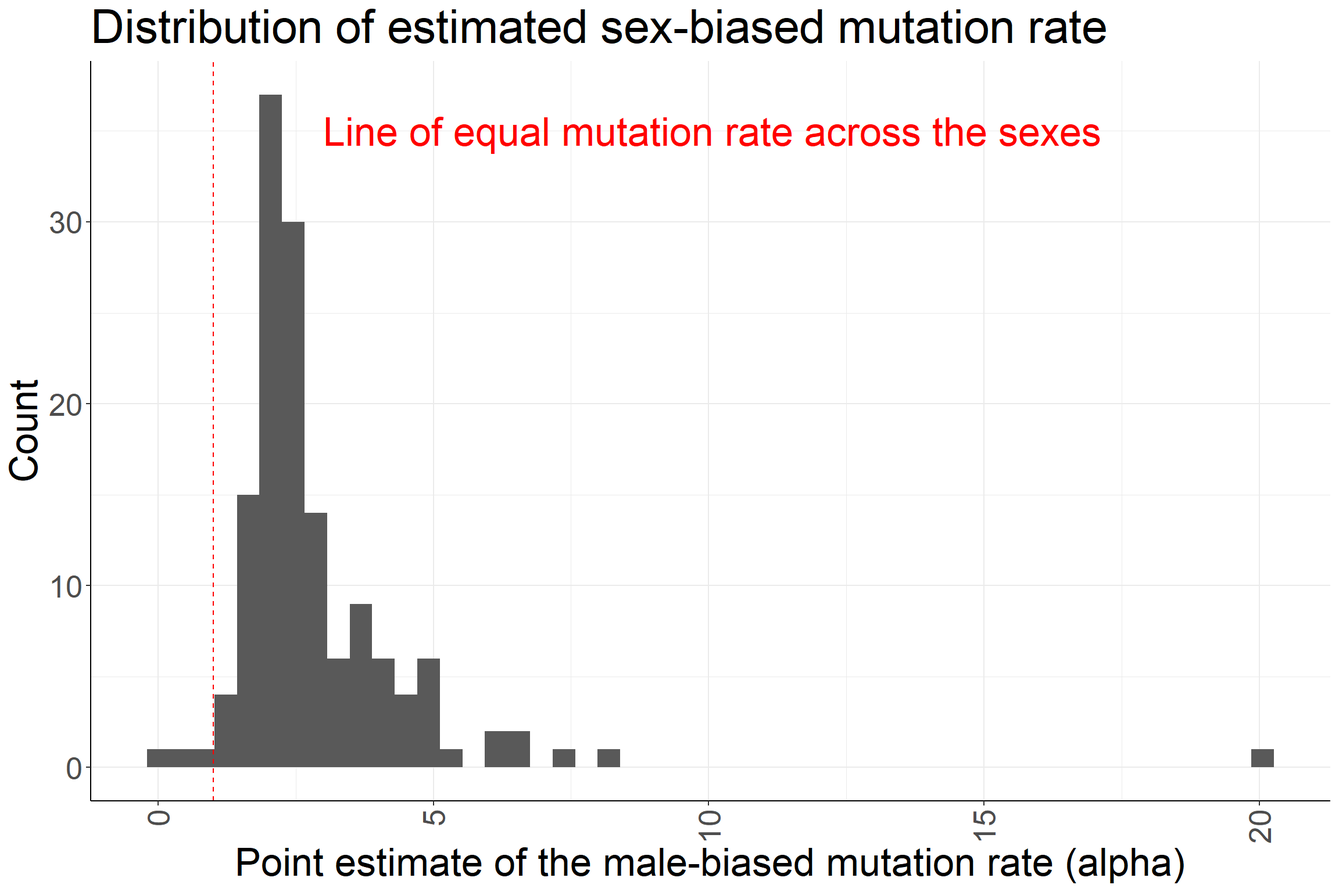
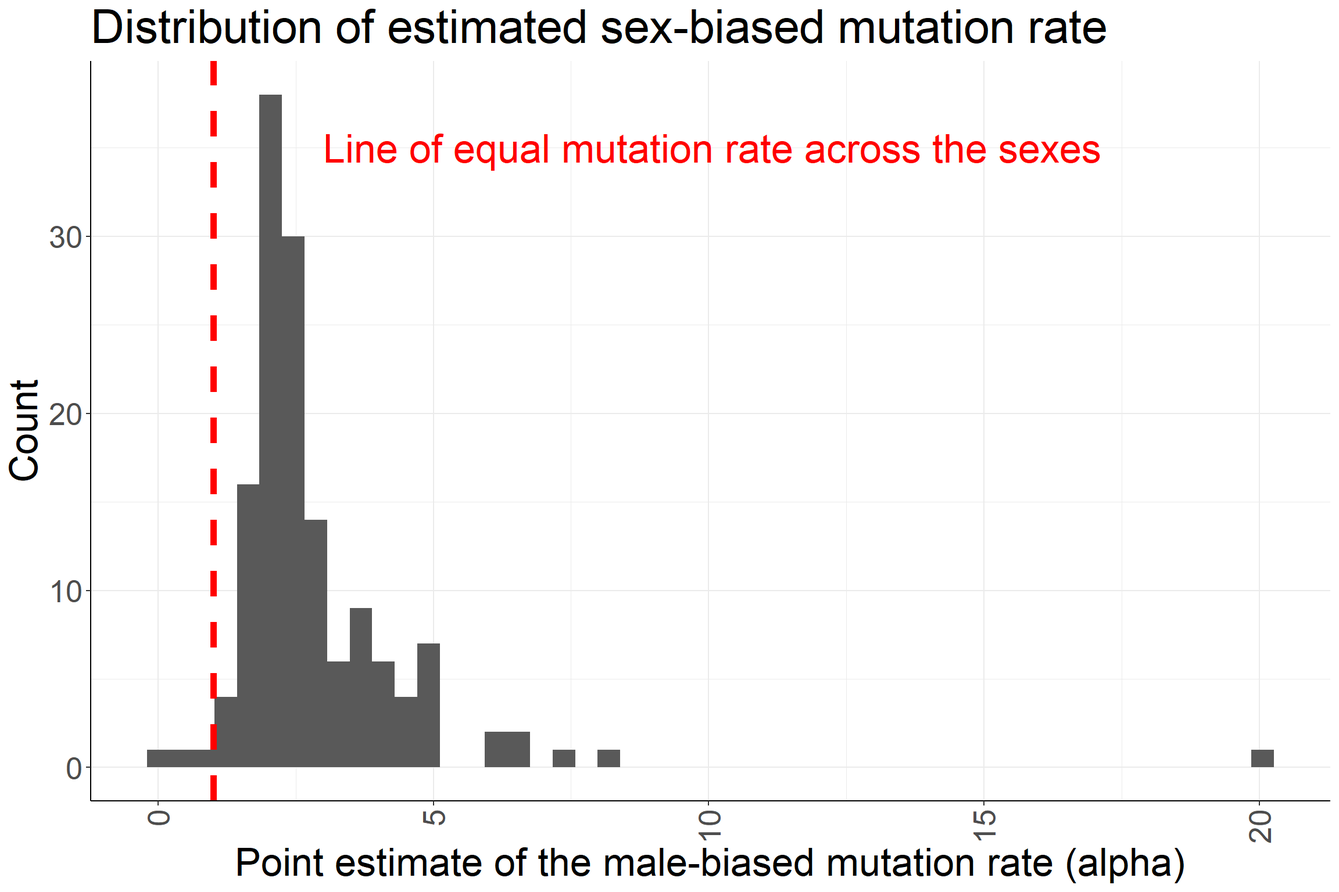
Build site.

diff --git a/docs/sex_biased_mutation_rate.html b/docs/sex_biased_mutation_rate.html
@@ -389,7 +389,7 @@ div.tocify {
 <div class="tab-content">
 <div id="summary" class="tab-pane fade in active">
 <p>
-<strong>Last updated:</strong> 2021-12-09
+<strong>Last updated:</strong> 2021-12-10
 </p>
 <p>
 <strong>Checks:</strong> <span class="glyphicon glyphicon-ok text-success" aria-hidden="true"></span> 7 <span class="glyphicon glyphicon-exclamation-sign text-danger" aria-hidden="true"></span> 0
@@ -480,16 +480,16 @@ This reproducible <a href="http://rmarkdown.rstudio.com">R Markdown</a> analysis
 <div class="panel panel-default">
 <div class="panel-heading">
 <p class="panel-title">
-<a data-toggle="collapse" data-parent="#workflowr-checks" href="#strongRepositoryversionstrongahrefhttpsgithubcomIJbeasleyunguardedxjournalclubtree5066bc3603932c0c726f69111bbe476d0660775ctargetblank5066bc3a"> <span class="glyphicon glyphicon-ok text-success" aria-hidden="true"></span> <strong>Repository version:</strong> <a href="https://github.com/IJbeasley/unguarded_x_journal_club/tree/5066bc3603932c0c726f69111bbe476d0660775c" target="_blank">5066bc3</a> </a>
+<a data-toggle="collapse" data-parent="#workflowr-checks" href="#strongRepositoryversionstrongahrefhttpsgithubcomIJbeasleyunguardedxjournalclubtree5086eac8adbb63241fe9b3050f1ccac32aa908b1targetblank5086eaca"> <span class="glyphicon glyphicon-ok text-success" aria-hidden="true"></span> <strong>Repository version:</strong> <a href="https://github.com/IJbeasley/unguarded_x_journal_club/tree/5086eac8adbb63241fe9b3050f1ccac32aa908b1" target="_blank">5086eac</a> </a>
 </p>
 </div>
[2 lines of base64/hex data omitted]
 <div class="panel-body">
 <p>
 Great! You are using Git for version control. Tracking code development and connecting the code version to the results is critical for reproducibility.
 </p>
 <p>
-The results in this page were generated with repository version <a href="https://github.com/IJbeasley/unguarded_x_journal_club/tree/5066bc3603932c0c726f69111bbe476d0660775c" target="_blank">5066bc3</a>. See the <em>Past versions</em> tab to see a history of the changes made to the R Markdown and HTML files.
+The results in this page were generated with repository version <a href="https://github.com/IJbeasley/unguarded_x_journal_club/tree/5086eac8adbb63241fe9b3050f1ccac32aa908b1" target="_blank">5086eac</a>. See the <em>Past versions</em> tab to see a history of the changes made to the R Markdown and HTML files.
 </p>
 <p>
 Note that you need to be careful to ensure that all relevant files for the analysis have been committed to Git prior to generating the results (you can use <code>wflow_publish</code> or <code>wflow_git_commit</code>). workflowr only checks the R Markdown file, but you know if there are other scripts or data files that it depends on. Below is the status of the Git repository when the results were generated:
@@ -533,6 +533,40 @@ Message
 </tr>
 </thead>
 <tbody>
+<tr>
+<td>
+Rmd
+</td>
+<td>
+<a href="https://github.com/IJbeasley/unguarded_x_journal_club/blob/5086eac8adbb63241fe9b3050f1ccac32aa908b1/analysis/sex_biased_mutation_rate.Rmd" target="_blank">5086eac</a>
+</td>
+<td>
+Isobel Beasley
+</td>
+<td>
+2021-12-10
+</td>
+<td>
+Include information on the data collated for sex-biased mutation rate
+</td>
+</tr>
+<tr>
+<td>
+html
+</td>
+<td>
+<a href="https://rawcdn.githack.com/IJbeasley/unguarded_x_journal_club/93f651a8f1fa8ec3f158d6e39104632a3ac6e50a/docs/sex_biased_mutation_rate.html" target="_blank">93f651a</a>
+</td>
+<td>
+Isobel Beasley
+</td>
+<td>
+2021-12-09
+</td>
+<td>
+Build site.
+</td>
+</tr>
 <tr>
 <td>
 Rmd
@@ -659,8 +693,8 @@ Publish inital webpages project
 </div>
 </div>
 </div>
-<div id="set-up" class="section level2">
-<h2>Set up</h2>
+<div id="set-up" class="section level1">
+<h1>Set up</h1>
 <pre class="r"><code>library(ggplot2)
 suppressMessages(library(dplyr))
 library(reactable)</code></pre>
@@ -672,12 +706,10 @@ googlesheets4::gs4_deauth()
 sex_bias_mut_df = googlesheets4::read_sheet(&quot;https://docs.google.com/spreadsheets/d/10ZVgeGlDpEnPG-4zLLrSBQjF7p2_9hzzIMPuIRuvogg/edit#gid=537547888&quot;, range = &quot;Alpha Estimates (each row is a single estimate)&quot;)</code></pre>
 <pre><code>v Reading from &quot;Sex_bias_mutation_rate&quot;.</code></pre>
 <pre><code>v Range &#39;&#39;Alpha Estimates (each row is a single estimate)&#39;&#39;.</code></pre>
-<pre><code>New names:
-* `` -&gt; ...13
-* `` -&gt; ...14</code></pre>
-<pre class="r"><code>head(sex_bias_mut_df) %&gt;% reactable()</code></pre>
+<pre class="r"><code># what does the sex bias in mutation rate estimate look like: 
+head(sex_bias_mut_df) %&gt;% reactable()</code></pre>
 <div id="htmlwidget-0bc58612b86b389075fb" class="reactable html-widget" style="width:auto;height:auto;"></div>
-<script type="application/json" data-for="htmlwidget-0bc58612b86b389075fb">{"x":{"tag":{"name":"Reactable","attribs":{"data":{"authors":["Makova and Li","Ellegren and Fridolfsson","Bartosch-Härlid et al.","Bartosch-Härlid et al.","Bartosch-Härlid et al.","Bartosch-Härlid et al."],"year":[2002,2003,2003,2003,2003,2003],"taxonomic_class":["Mammalia","Actinopterygii","Aves","Aves","Aves","Aves"],"animal_name":["Primates (Human, Gorilla, Bonobo,Siamang,Gibbon)","Salmonid Fish","Birds (Passeriformes based clade)","Birds (Passeriformes based clade)","Birds (Passeriformes based clade)","Birds (Charadriiformes and Procellariiformes based clade)"],"scientific_name":["Homo sapiens;Gorilla gorilla;Pan paniscus;Symphalangus syndactylus;Hylobates lar","Oncorhynchus kisutch;Oncorhynchus tshawytscha","Agelaius phoeniceus;Cardinalis cardinalis;Emberiza citrinella;Emberiza schoeniclus;Icteria virens;Passer domesticus;Passer montanus;Prunella collaris;Prunella modularis;Setophaga citrina","Cyanistes caeruleus;Parus major;Hirundo rustica;Phylloscopus trochilus;Tachycineta bicolor;Troglodytes aedon","Erithacus rubecula;Ficedula albicollis;Sialia mexicana;Sialia sialis","Stercorarius antarcticus;Charadrius morinellus;Haematopus ostralegus;Chroicocephalus ridibundus;Fulmarus glacialis;Hydrobates leucorhous"],"alpha_point_estimate":[5.25,5.98,3.48,2.43,1.7,4.74],"alpha_estimate_lower":[2.44,5.35,2.34,1.67,0.88,3.42],"alpha_estimate_upper":["NA",6.6,4.62,3.19,2.52,6.06],"method_used_to_calculate_alpha":["Evolutionary method (Miyata et al. 1987; comparing Y/Autosomes)","Evolutionary method (Miyata et al. 1987; comparing Y/Autosomes)","Evolutionary method (Miyata et al. 1987; comparing Z/W)","Evolutionary method (Miyata et al. 1987; comparing Z/W)","Evolutionary method (Miyata et al. 1987; comparing Z/W)","Evolutionary method (Miyata et al. 1987; comparing Z/W)"],"upper_lower_meaning":["Lower and upper estimates are the 95% confidence interval for alpha","Lower and upper estimates are based on different calculations for alpha","Lower and upper estimates are 2 standard errors from the mean (rough 95% confidence interval)","Lower and upper estimates are 2 standard errors from the mean (rough 95% confidence interval)","Lower and upper estimates are 2 standard errors from the mean (rough 95% confidence interval)","Lower and upper estimates are 2 standard errors from the mean (rough 95% confidence interval)"],"other_notes":["Compared Y with Chromosome 3","95% confidence intervals for each estimate include 1. Point estimate is just the mean of the lower and upper values",null,null,null,null],"Loci":["Noncoding sequences (three segments)",null,null,null,null,null],"...13":[null,null,null,null,null,null],"...14":[null,null,null,null,null,null]},"columns":[{"accessor":"authors","name":"authors","type":"character"},{"accessor":"year","name":"year","type":"numeric"},{"accessor":"taxonomic_class","name":"taxonomic_class","type":"character"},{"accessor":"animal_name","name":"animal_name","type":"character"},{"accessor":"scientific_name","name":"scientific_name","type":"character"},{"accessor":"alpha_point_estimate","name":"alpha_point_estimate","type":"numeric"},{"accessor":"alpha_estimate_lower","name":"alpha_estimate_lower","type":"numeric"},{"accessor":"alpha_estimate_upper","name":"alpha_estimate_upper","type":"numeric"},{"accessor":"method_used_to_calculate_alpha","name":"method_used_to_calculate_alpha","type":"character"},{"accessor":"upper_lower_meaning","name":"upper_lower_meaning","type":"character"},{"accessor":"other_notes","name":"other_notes","type":"character"},{"accessor":"Loci","name":"Loci","type":"character"},{"accessor":"...13","name":"...13","type":"character"},{"accessor":"...14","name":"...14","type":"character"}],"defaultPageSize":10,"paginationType":"numbers","showPageInfo":true,"minRows":1,"dataKey":"8c3619b477ebaa3151ac3adc7f617820","key":"8c3619b477ebaa3151ac3adc7f617820"},"children":[]},"class":"reactR_markup"},"evals":[],"jsHooks":[]}</script>
+<script type="application/json" data-for="htmlwidget-0bc58612b86b389075fb">{"x":{"tag":{"name":"Reactable","attribs":{"data":{"authors":["Makova and Li","Ellegren and Fridolfsson","Bartosch-Härlid et al.","Bartosch-Härlid et al.","Bartosch-Härlid et al.","Bartosch-Härlid et al."],"year":[2002,2003,2003,2003,2003,2003],"taxonomic_class":["Mammalia","Actinopterygii","Aves","Aves","Aves","Aves"],"animal_name":["Primates (Human, Gorilla, Bonobo,Siamang,Gibbon)","Salmonid Fish","Birds (Passeriformes based clade)","Birds (Passeriformes based clade)","Birds (Passeriformes based clade)","Birds (Charadriiformes and Procellariiformes based clade)"],"scientific_name":["Homo sapiens;Gorilla gorilla;Pan paniscus;Symphalangus syndactylus;Hylobates lar","Oncorhynchus kisutch;Oncorhynchus tshawytscha","Agelaius phoeniceus;Cardinalis cardinalis;Emberiza citrinella;Emberiza schoeniclus;Icteria virens;Passer domesticus;Passer montanus;Prunella collaris;Prunella modularis;Setophaga citrina","Cyanistes caeruleus;Parus major;Hirundo rustica;Phylloscopus trochilus;Tachycineta bicolor;Troglodytes aedon","Erithacus rubecula;Ficedula albicollis;Sialia mexicana;Sialia sialis","Stercorarius antarcticus;Charadrius morinellus;Haematopus ostralegus;Chroicocephalus ridibundus;Fulmarus glacialis;Hydrobates leucorhous"],"alpha_point_estimate":[2.23,5.98,3.48,2.43,1.7,4.74],"alpha_estimate_lower":[1.47,5.35,2.34,1.67,0.88,3.42],"alpha_estimate_upper":[3.84,6.6,4.62,3.19,2.52,6.06],"method_used_to_calculate_alpha":["Evolutionary method (Miyata et al. 1987; comparing Y/Autosomes)","Evolutionary method (Miyata et al. 1987; comparing Y/Autosomes)","Evolutionary method (Miyata et al. 1987; comparing Z/W)","Evolutionary method (Miyata et al. 1987; comparing Z/W)","Evolutionary method (Miyata et al. 1987; comparing Z/W)","Evolutionary method (Miyata et al. 1987; comparing Z/W)"],"upper_lower_meaning":["Lower and upper estimates are the 95% confidence interval for alpha","Lower and upper estimates are based on different calculations for alpha","Lower and upper estimates are 2 standard errors from the mean (rough 95% confidence interval)","Lower and upper estimates are 2 standard errors from the mean (rough 95% confidence interval)","Lower and upper estimates are 2 standard errors from the mean (rough 95% confidence interval)","Lower and upper estimates are 2 standard errors from the mean (rough 95% confidence interval)"],"other_notes":["Compared Y with Chromosome 3","95% confidence intervals for each estimate include 1. Point estimate is just the mean of the lower and upper values",null,null,null,null],"loci_for_estimate":["Noncoding sequences (three segments)",null,"Introns (gene pairs)","Introns (gene pairs)","Introns (gene pairs)","Introns (gene pairs)"]},"columns":[{"accessor":"authors","name":"authors","type":"character"},{"accessor":"year","name":"year","type":"numeric"},{"accessor":"taxonomic_class","name":"taxonomic_class","type":"character"},{"accessor":"animal_name","name":"animal_name","type":"character"},{"accessor":"scientific_name","name":"scientific_name","type":"character"},{"accessor":"alpha_point_estimate","name":"alpha_point_estimate","type":"numeric"},{"accessor":"alpha_estimate_lower","name":"alpha_estimate_lower","type":"numeric"},{"accessor":"alpha_estimate_upper","name":"alpha_estimate_upper","type":"numeric"},{"accessor":"method_used_to_calculate_alpha","name":"method_used_to_calculate_alpha","type":"character"},{"accessor":"upper_lower_meaning","name":"upper_lower_meaning","type":"character"},{"accessor":"other_notes","name":"other_notes","type":"character"},{"accessor":"loci_for_estimate","name":"loci_for_estimate","type":"character"}],"defaultPageSize":10,"paginationType":"numbers","showPageInfo":true,"minRows":1,"dataKey":"5da085b4482c69a79db9b73b36090585","key":"5da085b4482c69a79db9b73b36090585"},"children":[]},"class":"reactR_markup"},"evals":[],"jsHooks":[]}</script>
 <pre class="r"><code># Set up custom theme for ggplots
 custom_theme &lt;-
   list(
@@ -692,23 +724,88 @@ custom_theme &lt;-
       )
   )</code></pre>
 </div>
-<div id="number-of-estimates-per-taxonomic-class" class="section level2">
-<h2>Number of estimates per taxonomic class</h2>
+<div id="what-data-have-we-collected-collated" class="section level1">
+<h1>What data have we collected / collated?</h1>
+<div id="number-of-unique-studies-included" class="section level2">
+<h2>Number of unique studies included</h2>
+<pre class="r"><code>sex_bias_mut_df %&gt;% 
+  select(authors,year) %&gt;% 
+  distinct() %&gt;% 
+  nrow()</code></pre>
+<pre><code>[1] 34</code></pre>
+</div>
+<div id="when-where-these-studies-published" class="section level2">
+<h2>When where these studies published?</h2>
+<pre class="r"><code>sex_bias_mut_df %&gt;%   
+  select(authors,year) %&gt;% 
+  distinct() %&gt;% 
+  ggplot(aes(x=year)) + 
+  geom_histogram() + 
+  custom_theme  + 
+  labs(x = &quot;Year published*&quot;,
+       y = &quot;Number&quot;,
+       title = &quot;What year were our collated studies published?&quot;)</code></pre>
+<pre><code>`stat_bin()` using `bins = 30`. Pick better value with `binwidth`.</code></pre>
+<p><img src="figure/sex_biased_mutation_rate.Rmd/when_studies_published-1.png" width="1152" style="display: block; margin: auto;" /></p>
+<ul>
+<li>Or preprinted, in the case of included preprints</li>
+</ul>
+</div>
+<div id="how-many-distinct-estimates-per-year" class="section level2">
+<h2>How many distinct estimates per year?</h2>
+<pre class="r"><code>sex_bias_mut_df %&gt;%   
+  select(authors,year,scientific_name) %&gt;% 
+  distinct() %&gt;% 
+  ggplot(aes(x=year)) + 
+  geom_histogram() + 
+  custom_theme  + 
+  labs(x = &quot;Year published*&quot;,
+       y = &quot;Number&quot;,
+       title = &quot;How many unique estimtates (study, and organism specific) per year?&quot;)</code></pre>
+<pre><code>`stat_bin()` using `bins = 30`. Pick better value with `binwidth`.</code></pre>
+<p><img src="figure/sex_biased_mutation_rate.Rmd/n_samples_per_year-1.png" width="1152" style="display: block; margin: auto;" /></p>
+<ul>
+<li>Or preprinted, in the case of included preprints</li>
+</ul>
+</div>
+<div id="number-of-estimates-of-sex-biased-mutation-rate-per-taxonomic-class" class="section level2">
+<h2>Number of estimates of sex-biased mutation rate per taxonomic class</h2>
 <pre class="r"><code>sex_bias_mut_df %&gt;% 
   group_by(taxonomic_class) %&gt;% 
   summarise(n = n()) %&gt;% 
   reactable()</code></pre>
 <div id="htmlwidget-a71b15f820af623e53da" class="reactable html-widget" style="width:auto;height:auto;"></div>
-<script type="application/json" data-for="htmlwidget-a71b15f820af623e53da">{"x":{"tag":{"name":"Reactable","attribs":{"data":{"taxonomic_class":["Actinopterygii","Amphibia","Arachnida","Aves","Mammalia","Reptilia"],"n":[1,2,2,72,60,5]},"columns":[{"accessor":"taxonomic_class","name":"taxonomic_class","type":"character"},{"accessor":"n","name":"n","type":"numeric"}],"defaultPageSize":10,"paginationType":"numbers","showPageInfo":true,"minRows":1,"dataKey":"292187651de7353625985466137ce467","key":"292187651de7353625985466137ce467"},"children":[]},"class":"reactR_markup"},"evals":[],"jsHooks":[]}</script>
+<script type="application/json" data-for="htmlwidget-a71b15f820af623e53da">{"x":{"tag":{"name":"Reactable","attribs":{"data":{"taxonomic_class":["Actinopterygii","Amphibia","Arachnida","Aves","Mammalia","Reptilia"],"n":[1,2,2,74,60,5]},"columns":[{"accessor":"taxonomic_class","name":"taxonomic_class","type":"character"},{"accessor":"n","name":"n","type":"numeric"}],"defaultPageSize":10,"paginationType":"numbers","showPageInfo":true,"minRows":1,"dataKey":"5b79cc8d4bc72bf37748001eb95d6ac0","key":"5b79cc8d4bc72bf37748001eb95d6ac0"},"children":[]},"class":"reactR_markup"},"evals":[],"jsHooks":[]}</script>
 </div>
-<div id="number-of-estimates-per-method-used-to-calculate-the-sex-biased-mutation-rate" class="section level2">
-<h2>Number of estimates per method used to calculate the sex-biased mutation rate</h2>
+<div id="number-of-estimates-per-method-used-to-calculate-the-sex-biased-ratio-in-mutation-rate" class="section level2">
+<h2>Number of estimates per method used to calculate the sex-biased ratio in mutation rate</h2>
 <pre class="r"><code>sex_bias_mut_df %&gt;% 
   group_by(method_used_to_calculate_alpha) %&gt;% 
   summarise(n = n()) %&gt;% 
   reactable(defaultPageSize = 50)</code></pre>
 <div id="htmlwidget-953d50596abf826ad1b4" class="reactable html-widget" style="width:auto;height:auto;"></div>
-<script type="application/json" data-for="htmlwidget-953d50596abf826ad1b4">{"x":{"tag":{"name":"Reactable","attribs":{"data":{"method_used_to_calculate_alpha":["Direct estimate (trios)","Evolutionary method (Miyata et al. 1987; comparing W/Autosomes)","Evolutionary method (Miyata et al. 1987; comparing X/Autosomes)","Evolutionary method (Miyata et al. 1987; comparing X/Y)","Evolutionary method (Miyata et al. 1987; comparing Y/Autosomes)","Evolutionary method (Miyata et al. 1987; comparing Y/X)","Evolutionary method (Miyata et al. 1987; comparing Z/Autosomes)","Evolutionary method (Miyata et al. 1987; comparing Z/W)"],"n":[12,1,42,7,6,2,58,14]},"columns":[{"accessor":"method_used_to_calculate_alpha","name":"method_used_to_calculate_alpha","type":"character"},{"accessor":"n","name":"n","type":"numeric"}],"defaultPageSize":50,"paginationType":"numbers","showPageInfo":true,"minRows":1,"dataKey":"b890cc93015bf7efcb60a1d01c1751f4","key":"b890cc93015bf7efcb60a1d01c1751f4"},"children":[]},"class":"reactR_markup"},"evals":[],"jsHooks":[]}</script>
+<script type="application/json" data-for="htmlwidget-953d50596abf826ad1b4">{"x":{"tag":{"name":"Reactable","attribs":{"data":{"method_used_to_calculate_alpha":["Direct estimate (trios)","Evolutionary method (Miyata et al. 1987; comparing W/Autosomes)","Evolutionary method (Miyata et al. 1987; comparing X/Autosomes)","Evolutionary method (Miyata et al. 1987; comparing X/Y)","Evolutionary method (Miyata et al. 1987; comparing Y/Autosomes)","Evolutionary method (Miyata et al. 1987; comparing Z/Autosomes)","Evolutionary method (Miyata et al. 1987; comparing Z/W)"],"n":[12,1,42,9,6,58,16]},"columns":[{"accessor":"method_used_to_calculate_alpha","name":"method_used_to_calculate_alpha","type":"character"},{"accessor":"n","name":"n","type":"numeric"}],"defaultPageSize":50,"paginationType":"numbers","showPageInfo":true,"minRows":1,"dataKey":"eb2fb95cccac3bab9e23f79d862516e6","key":"eb2fb95cccac3bab9e23f79d862516e6"},"children":[]},"class":"reactR_markup"},"evals":[],"jsHooks":[]}</script>
+</div>
+<div id="number-of-estimates-per-loci-type-used-to-calculate-the-sex-biased-ratio-in-mutation-rate" class="section level2">
+<h2>Number of estimates per loci type used to calculate the sex-biased ratio in mutation rate</h2>
+<pre class="r"><code>sex_bias_mut_df %&gt;% 
+  group_by(loci_for_estimate) %&gt;% 
+  summarise(n = n()) %&gt;% 
+  reactable(defaultPageSize = 50)</code></pre>
+<div id="htmlwidget-dfb6bc2cdefdbd9c15ee" class="reactable html-widget" style="width:auto;height:auto;"></div>
+<script type="application/json" data-for="htmlwidget-dfb6bc2cdefdbd9c15ee">{"x":{"tag":{"name":"Reactable","attribs":{"data":{"loci_for_estimate":["Exon sequence (gene pair)","Exons and introns (five sequences)","Intron (gene pair)","Intron sequence (single)","Introns (gene pairs)","Microsattelites (three)","Neutral ancestoral repeat regions","Noncoding sequences (three segments)","Orthologous introns","Orthologues (intronic sequences)","Synonymous sites","Whole-genome (introns)","Whole-genome (non-coding)","Whole-genome (synonymous sites)","Whole-genome sequence","Whole genome sequences",null],"n":[1,2,6,1,7,1,1,1,3,9,2,44,32,10,1,1,22]},"columns":[{"accessor":"loci_for_estimate","name":"loci_for_estimate","type":"character"},{"accessor":"n","name":"n","type":"numeric"}],"defaultPageSize":50,"paginationType":"numbers","showPageInfo":true,"minRows":1,"dataKey":"f2a342f028699509a5abed754da63d5c","key":"f2a342f028699509a5abed754da63d5c"},"children":[]},"class":"reactR_markup"},"evals":[],"jsHooks":[]}</script>
+<pre class="r"><code># Number of unique studies
+
+sex_bias_mut_df %&gt;% 
+  group_by(authors,year) %&gt;% 
+  sample_n(1) %&gt;% 
+  ungroup() %&gt;% 
+  group_by(taxonomic_class,loci_for_estimate) %&gt;% 
+  summarise(n = n()) %&gt;% 
+  reactable(defaultPageSize = 50)</code></pre>
+<pre><code>`summarise()` has grouped output by &#39;taxonomic_class&#39;. You can override using the `.groups` argument.</code></pre>
+<div id="htmlwidget-780cb9f563e2acfaa2c2" class="reactable html-widget" style="width:auto;height:auto;"></div>
+<script type="application/json" data-for="htmlwidget-780cb9f563e2acfaa2c2">{"x":{"tag":{"name":"Reactable","attribs":{"data":{"taxonomic_class":["Actinopterygii","Amphibia","Arachnida","Aves","Aves","Aves","Aves","Aves","Aves","Aves","Aves","Aves","Mammalia","Mammalia","Mammalia","Mammalia","Mammalia","Mammalia","Reptilia","Reptilia"],"loci_for_estimate":[null,"Exons and introns (five sequences)","Synonymous sites","Intron (gene pair)","Intron sequence (single)","Introns (gene pairs)","Microsattelites (three)","Neutral ancestoral repeat regions","Orthologous introns","Whole-genome (introns)","Whole-genome (synonymous sites)",null,"Intron (gene pair)","Noncoding sequences (three segments)","Orthologues (intronic sequences)","Whole-genome (non-coding)","Whole-genome sequence",null,"Whole genome sequences",null],"n":[1,1,1,2,1,1,1,1,1,1,1,2,2,1,1,1,1,11,1,2]},"columns":[{"accessor":"taxonomic_class","name":"taxonomic_class","type":"character"},{"accessor":"loci_for_estimate","name":"loci_for_estimate","type":"character"},{"accessor":"n","name":"n","type":"numeric"}],"defaultPageSize":50,"paginationType":"numbers","showPageInfo":true,"minRows":1,"dataKey":"ce6d3bcfe44b6ea439f65e01a03c5a65","key":"ce6d3bcfe44b6ea439f65e01a03c5a65"},"children":[]},"class":"reactR_markup"},"evals":[],"jsHooks":[]}</script>
 </div>
 <div id="number-of-estimates-by-both-taxonomic-class-and-method-used-to-calculate" class="section level2">
 <h2>Number of estimates by both taxonomic class and method used to calculate</h2>
@@ -717,8 +814,9 @@ custom_theme &lt;-
   summarise(n = n()) %&gt;% 
   reactable(defaultPageSize = 50)</code></pre>
 <pre><code>`summarise()` has grouped output by &#39;taxonomic_class&#39;. You can override using the `.groups` argument.</code></pre>
-<div id="htmlwidget-dfb6bc2cdefdbd9c15ee" class="reactable html-widget" style="width:auto;height:auto;"></div>
-<script type="application/json" data-for="htmlwidget-dfb6bc2cdefdbd9c15ee">{"x":{"tag":{"name":"Reactable","attribs":{"data":{"taxonomic_class":["Actinopterygii","Amphibia","Amphibia","Arachnida","Aves","Aves","Aves","Aves","Mammalia","Mammalia","Mammalia","Mammalia","Mammalia","Reptilia","Reptilia","Reptilia","Reptilia"],"method_used_to_calculate_alpha":["Evolutionary method (Miyata et al. 1987; comparing Y/Autosomes)","Evolutionary method (Miyata et al. 1987; comparing X/Y)","Evolutionary method (Miyata et al. 1987; comparing Z/W)","Evolutionary method (Miyata et al. 1987; comparing X/Autosomes)","Direct estimate (trios)","Evolutionary method (Miyata et al. 1987; comparing W/Autosomes)","Evolutionary method (Miyata et al. 1987; comparing Z/Autosomes)","Evolutionary method (Miyata et al. 1987; comparing Z/W)","Direct estimate (trios)","Evolutionary method (Miyata et al. 1987; comparing X/Autosomes)","Evolutionary method (Miyata et al. 1987; comparing X/Y)","Evolutionary method (Miyata et al. 1987; comparing Y/Autosomes)","Evolutionary method (Miyata et al. 1987; comparing Y/X)","Evolutionary method (Miyata et al. 1987; comparing X/Autosomes)","Evolutionary method (Miyata et al. 1987; comparing X/Y)","Evolutionary method (Miyata et al. 1987; comparing Y/Autosomes)","Evolutionary method (Miyata et al. 1987; comparing Z/Autosomes)"],"n":[1,1,1,2,2,1,56,13,10,39,5,4,2,1,1,1,2]},"columns":[{"accessor":"taxonomic_class","name":"taxonomic_class","type":"character"},{"accessor":"method_used_to_calculate_alpha","name":"method_used_to_calculate_alpha","type":"character"},{"accessor":"n","name":"n","type":"numeric"}],"defaultPageSize":50,"paginationType":"numbers","showPageInfo":true,"minRows":1,"dataKey":"f39e91c433cbade22f48c3a43b705aab","key":"f39e91c433cbade22f48c3a43b705aab"},"children":[]},"class":"reactR_markup"},"evals":[],"jsHooks":[]}</script>
+<div id="htmlwidget-de5fccbccc4019eddf97" class="reactable html-widget" style="width:auto;height:auto;"></div>
+<script type="application/json" data-for="htmlwidget-de5fccbccc4019eddf97">{"x":{"tag":{"name":"Reactable","attribs":{"data":{"taxonomic_class":["Actinopterygii","Amphibia","Amphibia","Arachnida","Aves","Aves","Aves","Aves","Mammalia","Mammalia","Mammalia","Mammalia","Reptilia","Reptilia","Reptilia","Reptilia"],"method_used_to_calculate_alpha":["Evolutionary method (Miyata et al. 1987; comparing Y/Autosomes)","Evolutionary method (Miyata et al. 1987; comparing X/Y)","Evolutionary method (Miyata et al. 1987; comparing Z/W)","Evolutionary method (Miyata et al. 1987; comparing X/Autosomes)","Direct estimate (trios)","Evolutionary method (Miyata et al. 1987; comparing W/Autosomes)","Evolutionary method (Miyata et al. 1987; comparing Z/Autosomes)","Evolutionary method (Miyata et al. 1987; comparing Z/W)","Direct estimate (trios)","Evolutionary method (Miyata et al. 1987; comparing X/Autosomes)","Evolutionary method (Miyata et al. 1987; comparing X/Y)","Evolutionary method (Miyata et al. 1987; comparing Y/Autosomes)","Evolutionary method (Miyata et al. 1987; comparing X/Autosomes)","Evolutionary method (Miyata et al. 1987; comparing X/Y)","Evolutionary method (Miyata et al. 1987; comparing Y/Autosomes)","Evolutionary method (Miyata et al. 1987; comparing Z/Autosomes)"],"n":[1,1,1,2,2,1,56,15,10,39,7,4,1,1,1,2]},"columns":[{"accessor":"taxonomic_class","name":"taxonomic_class","type":"character"},{"accessor":"method_used_to_calculate_alpha","name":"method_used_to_calculate_alpha","type":"character"},{"accessor":"n","name":"n","type":"numeric"}],"defaultPageSize":50,"paginationType":"numbers","showPageInfo":true,"minRows":1,"dataKey":"c74c337458f9fec8589a8900afab966f","key":"c74c337458f9fec8589a8900afab966f"},"children":[]},"class":"reactR_markup"},"evals":[],"jsHooks":[]}</script>
+</div>
 </div>
 <div id="distribution-of-sex-biased-mutation-estimates" class="section level1">
 <h1>Distribution of sex-biased mutation estimates</h1>
@@ -731,7 +829,7 @@ custom_theme &lt;-
         x = &quot;Point estimate of the male-biased mutation rate (alpha)&quot;,
        y= &quot;Count&quot;) + 
   custom_theme + 
-  geom_vline(xintercept = 1, col = &quot;red&quot;, linetype = 2) + 
+  geom_vline(xintercept = 1, col = &quot;red&quot;, linetype = 2, size = 2) + 
   annotate(
   &quot;text&quot;,
   x = 3,
@@ -744,7 +842,7 @@ custom_theme &lt;-
 <p><img src="figure/sex_biased_mutation_rate.Rmd/dist_sex_est-1.png" width="1152" style="display: block; margin: auto;" /></p>
 <pre class="r"><code>summary(sex_bias_mut_df$alpha_point_estimate)</code></pre>
 <pre><code>   Min. 1st Qu.  Median    Mean 3rd Qu.    Max. 
- 0.0283  2.0025  2.3852  2.8962  3.3100 20.0900 </code></pre>
+ 0.0283  2.0000  2.3750  2.8803  3.2700 20.0900 </code></pre>
 <pre class="r"><code>sex_bias_mut_df %&gt;% 
   ggplot(aes(x=alpha_point_estimate)) +
   geom_boxplot() + 
@@ -752,6 +850,29 @@ custom_theme &lt;-
    labs(title = &quot;Distribution of estimated sex-biased mutation rate&quot;,
         x = &quot;Point estimate of the male-biased mutation rate (alpha)&quot;) </code></pre>
 <p><img src="figure/sex_biased_mutation_rate.Rmd/dist_sex_est-2.png" width="1152" style="display: block; margin: auto;" /></p>
+<div id="after-sampling-down-multiple-estimates-on-the-same-sample-i.e.-same-study-and-organism" class="section level3">
+<h3>After sampling down multiple estimates on the same sample (i.e. same study, and organism)</h3>
+<pre class="r"><code>sex_bias_mut_df %&gt;% 
+  group_by(authors,year,scientific_name) %&gt;% 
+  sample_n(1) %&gt;% 
+  ggplot(aes(x=alpha_point_estimate)) + 
+  geom_histogram(bins = 50) + 
+  labs(title = &quot;Distribution of estimated sex-biased mutation rate&quot;,
+        x = &quot;Point estimate of the male-biased mutation rate (alpha)&quot;,
+       y= &quot;Count&quot;) + 
+  custom_theme + 
+  geom_vline(xintercept = 1, col = &quot;red&quot;, linetype = 2, size = 2) + 
+  annotate(
+  &quot;text&quot;,
+  x = 3,
+  y = 35,
+  size = 9,
+  hjust = 0,
+  col = &quot;red&quot;, 
+  label = &quot;Line of equal mutation rate across the sexes&quot;
+)</code></pre>
+<p><img src="figure/sex_biased_mutation_rate.Rmd/sampling_down_est_dist_est_in_mut_bias-1.png" width="1152" style="display: block; margin: auto;" /></p>
+</div>
 </div>
 <div id="by-taxonomic-class" class="section level2">
 <h2>By Taxonomic Class</h2>
@@ -762,7 +883,7 @@ custom_theme &lt;-
         x = &quot;Point estimate of the male-biased mutation rate (alpha)&quot;,
        y= &quot;Count&quot;) + 
   custom_theme + 
-  geom_vline(xintercept = 1, col = &quot;red&quot;, linetype = 2) + 
+  geom_vline(xintercept = 1, col = &quot;red&quot;, linetype = 2, size = 2) + 
   facet_wrap(~taxonomic_class)</code></pre>
 <p><img src="figure/sex_biased_mutation_rate.Rmd/sex_bias_by_taxo_class-1.png" width="1152" style="display: block; margin: auto;" /></p>
 </div>
@@ -773,9 +894,12 @@ custom_theme &lt;-
   geom_histogram() + 
   custom_theme + 
   facet_wrap(~method_used_to_calculate_alpha) + 
-  theme(text = element_text(size = 8))</code></pre>
+  theme(text = element_text(size = 25)) +   
+  labs(title = &quot;Distribution of estimated sex-biased mutation rate&quot;,
+        x = &quot;Point estimate of the male-biased mutation rate (alpha)&quot;,
+       y= &quot;Count&quot;)</code></pre>
 <pre><code>`stat_bin()` using `bins = 30`. Pick better value with `binwidth`.</code></pre>
-<p><img src="figure/sex_biased_mutation_rate.Rmd/sex_bias_by_method-1.png" width="1440" style="display: block; margin: auto;" /></p>
+<p><img src="figure/sex_biased_mutation_rate.Rmd/sex_bias_by_method-1.png" width="2880" style="display: block; margin: auto;" /></p>
 <br>
 <p>
 <button type="button" class="btn btn-default btn-workflowr btn-workflowr-sessioninfo" data-toggle="collapse" data-target="#workflowr-sessioninfo" style="display: block;">
